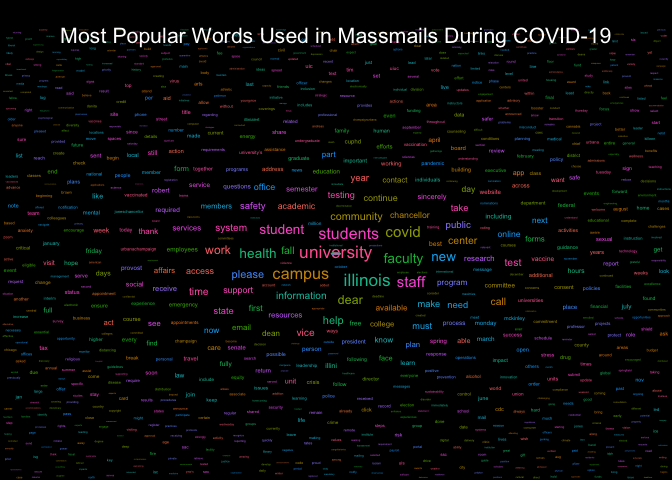
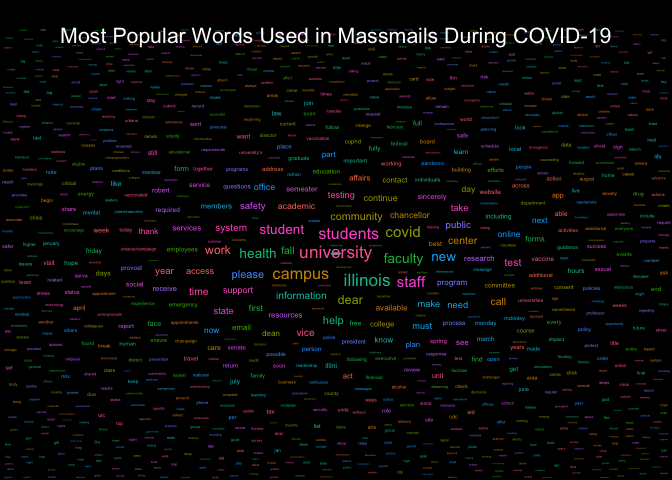
Re-build README.Rmd and Graphs

diff --git a/README.md b/README.md
@@ -17,7 +17,7 @@ The archive may be viewed here:
 
 <https://massmail.illinois.edu/massmailArchive>
 
-Data has **1902** observations and **7** variables:
+Data has **1903** observations and **7** variables:
 
 - `datetime`: Date and time when the email was sent in the form of
   `YYYY-MM-DD HMS` with either CDT or CST.
@@ -210,12 +210,12 @@ head(most_popular_words, 10) %>%
 
 | word        | freq |
 |:------------|-----:|
-| university  | 2527 |
+| university  | 2528 |
 | students    | 2082 |
-| campus      | 1839 |
-| illinois    | 1734 |
+| campus      | 1841 |
+| illinois    | 1735 |
 | student     | 1295 |
-| faculty     | 1172 |
+| faculty     | 1173 |
 | health      | 1116 |
 | community   | 1094 |
 | covid       | 1070 |
